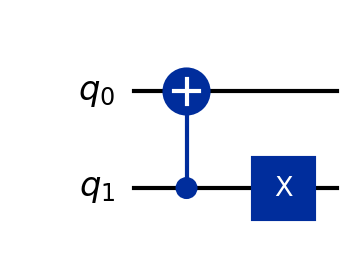
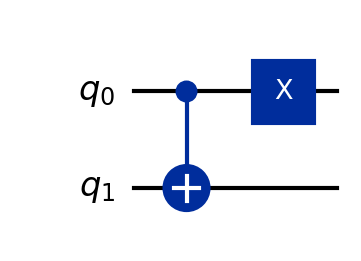
qiskit ordering

diff --git a/sparse_be/sparse_be.py b/sparse_be/sparse_be.py
@@ -7,7 +7,7 @@ from qiskit.circuit.library import RYGate, MCXGate
 from qiskit.circuit.library import UCRYGate
 
 
-def L_gate_create(j_qubits, reverse_bits=True, draw=False):
+def L_gate_create(j_qubits, reverse_bits=True, draw=True):
     qc = QuantumCircuit(j_qubits, name='L')
     for i in range (0, j_qubits-1):
         gate = MCXGate(j_qubits-1-i)
@@ -22,7 +22,7 @@ def L_gate_create(j_qubits, reverse_bits=True, draw=False):
     L_gate = qc.to_gate()
     return L_gate
 
-def R_gate_create(j_qubits, reverse_bits=True, draw=False):
+def R_gate_create(j_qubits, reverse_bits=True, draw=True):
     qc = QuantumCircuit(j_qubits, name='R')
     list_R = list(range(1, j_qubits))
     qc.x(list_R)
@@ -90,13 +90,13 @@ def be(A, reverse_bits=True, draw=False):
         a_reg = QuantumRegister(1, "a")
         l_reg = QuantumRegister(anc_qubits-1, "l")
         j_reg = QuantumRegister(j_qubits, "j")
-        circ = QuantumCircuit(a_reg, l_reg, j_reg)
+        circ = QuantumCircuit(j_reg, l_reg, a_reg)
 
         if neg:
             # add a -1 factor to the overall circuit to block encode the correct matrix
-            circ.unitary(-np.eye(2**(j_qubits)), range(anc_qubits,anc_qubits+j_qubits)) 
+            circ.unitary(-np.eye(2**(j_qubits)), range(j_qubits)) 
 
-        circ.h(list(range(1,anc_qubits)))
+        circ.h(l_reg)
 
         #Oa circuit
         value = 1
@@ -113,38 +113,37 @@ def be(A, reverse_bits=True, draw=False):
             angles = [theta0, theta2]
         if gamma == 0:
             angles = [theta0, theta1]
-        controls = list(range(anc_qubits-1))
-        target = [anc_qubits-1]
-        circ.append(UCRYGate(angles), controls +  target)
+
+        circ.append(UCRYGate(angles), [j_qubits+2, j_qubits, j_qubits+1])
 
         # Oc circuit
-        r1=2
-        r2=1
+        r1=j_qubits+1
+        r2=j_qubits
 
         if (not set_lower_diag) or (not set_upper_diag):
-            r1 = 1
-            r2 = 1
+            r1 = j_qubits
+            r2 = j_qubits
             
         if set_lower_diag:
             # set the lower diagonal value beta
-            j_qubits_spec1 = list(range(anc_qubits, anc_qubits+j_qubits))
+            j_qubits_spec1 = list(range(0, j_qubits))
             j_qubits_spec1.insert(0, r2)
-            circ.append(L_gate_create(j_qubits, reverse_bits, draw).control(1), j_qubits_spec1)
+            circ.append(L_gate_create(j_qubits, True, draw).control(1), j_qubits_spec1)
 
         if set_upper_diag:
             # set the upper diagonal value beta
-            j_qubits_spec2 = list(range(anc_qubits, anc_qubits+j_qubits))
+            j_qubits_spec2 = list(range(0, j_qubits))
             j_qubits_spec2.insert(0, r1)
-            circ.append(R_gate_create(j_qubits, reverse_bits, draw).control(1), j_qubits_spec2)
+            circ.append(R_gate_create(j_qubits, True, draw).control(1), j_qubits_spec2)
 
-        circ.h(list(range(1,anc_qubits)))
+        circ.h(l_reg)
 
     elif j_qubits==1:
         # symmetric 2x2 matrix case
         anc_qubits = 2
         j_reg = QuantumRegister(j_qubits, "j")
         a_reg = QuantumRegister(anc_qubits, "a")
-        circ = QuantumCircuit(a_reg, j_reg)
+        circ = QuantumCircuit(j_reg, a_reg)
         circ.h(1)
 
         #Oa circuit

diff --git a/tests/test_sparse_be_matrix.py b/tests/test_sparse_be_matrix.py
@@ -24,7 +24,7 @@ class Test_TestBlockEncodedMatrix(unittest.TestCase):
         print("\n")
         circ, alpha = be(A, reverse_bits=False, draw=True)
 
-        op = qi.Operator(circ.reverse_bits())
+        op = qi.Operator(circ)
         circ_matrix = op.data
         matrix = circ_matrix[0:N,0:N]
         print_matrix(matrix,2)
